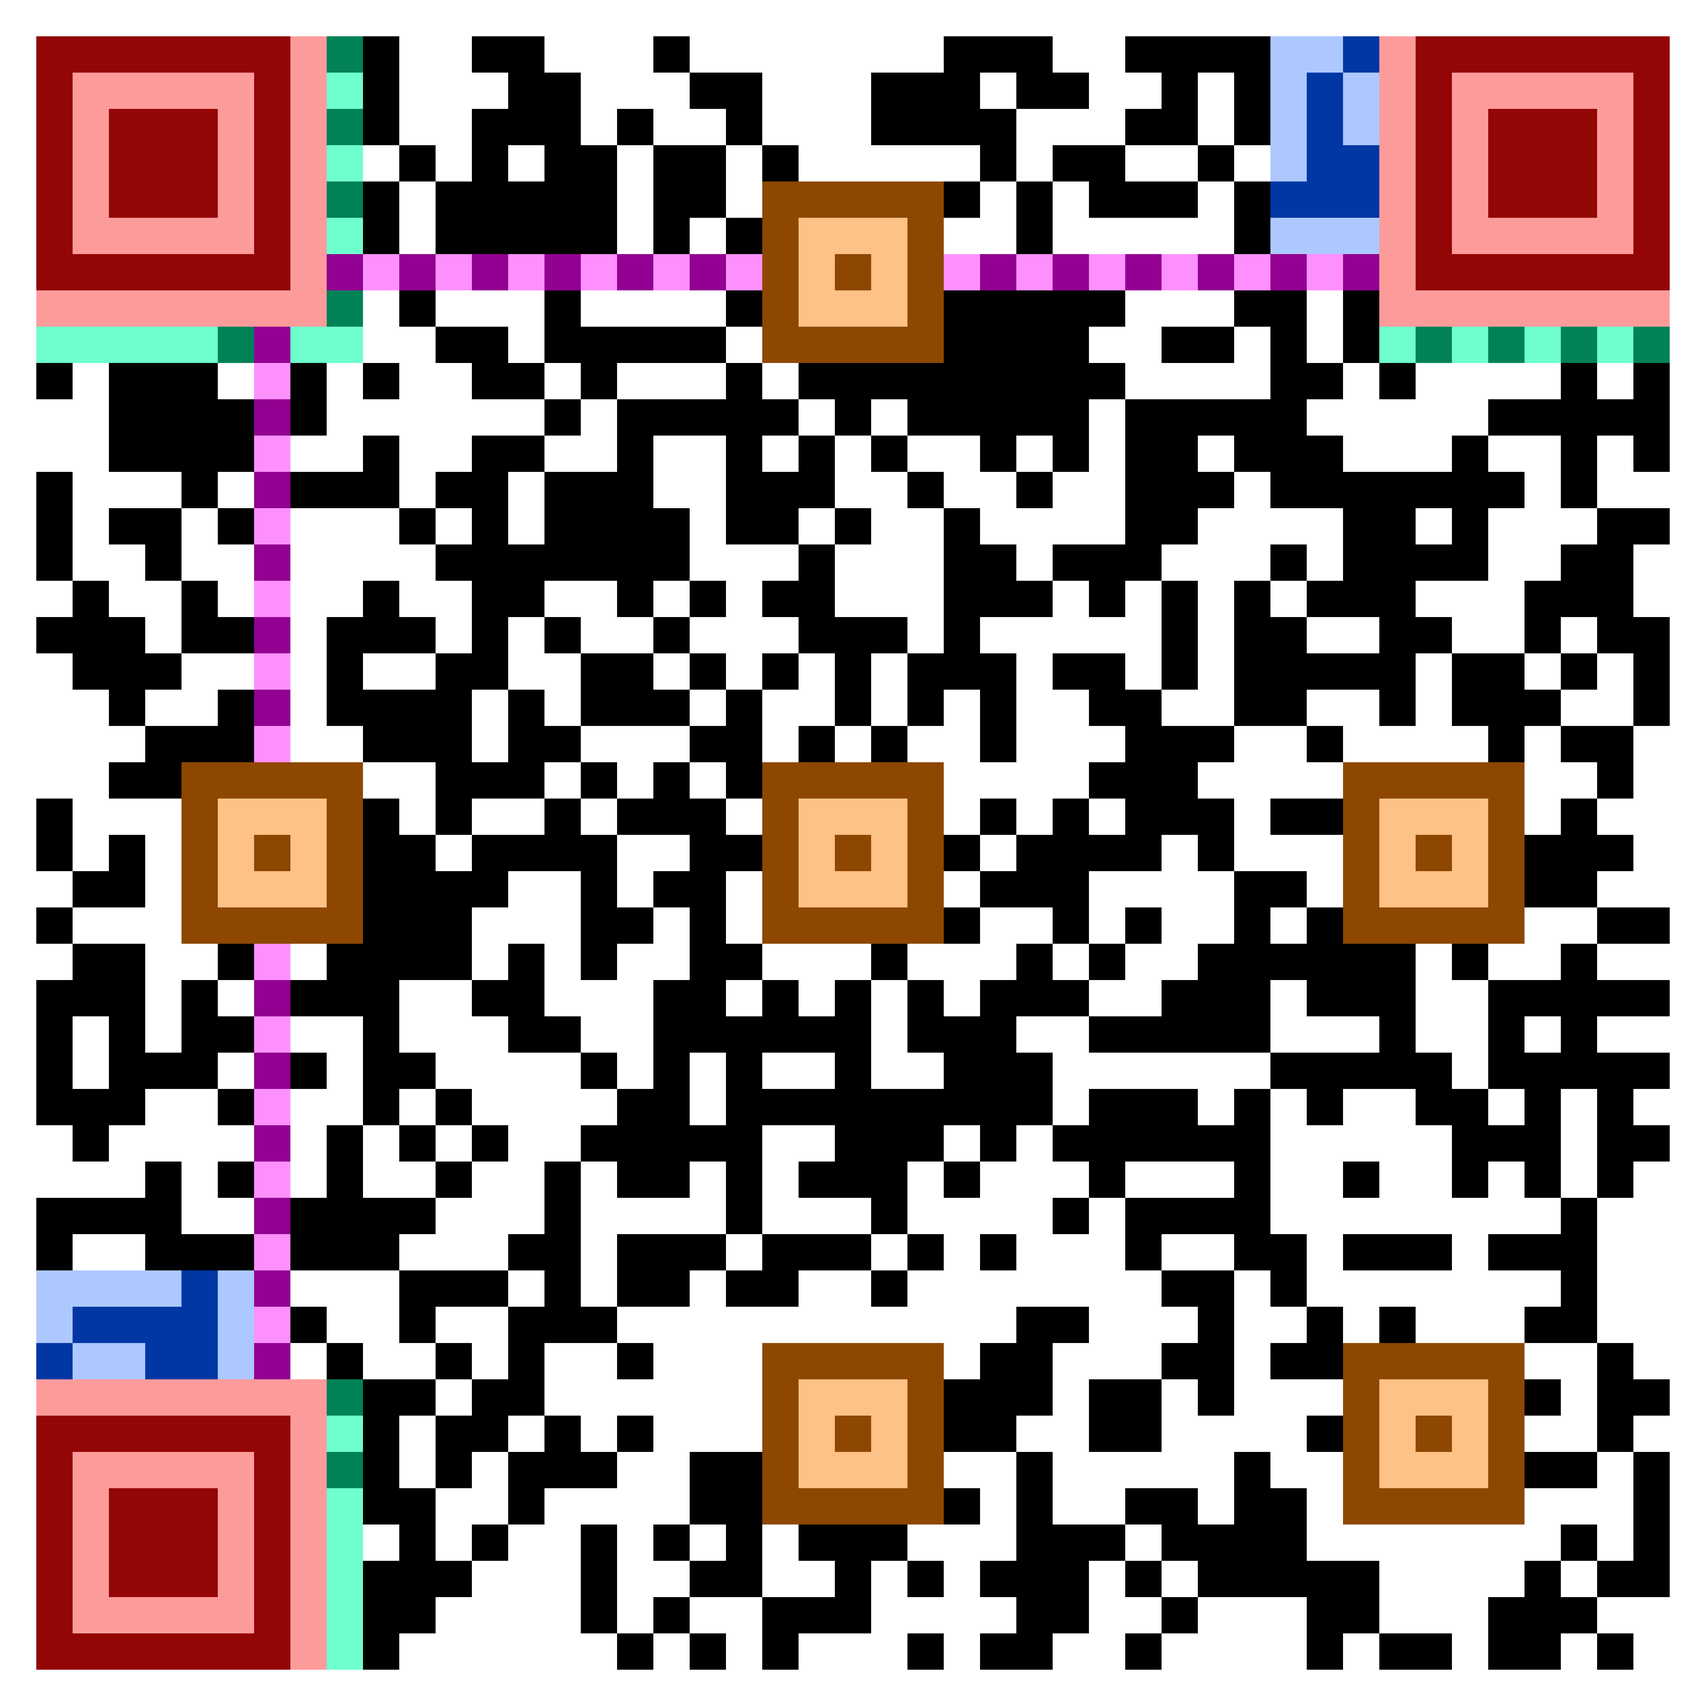
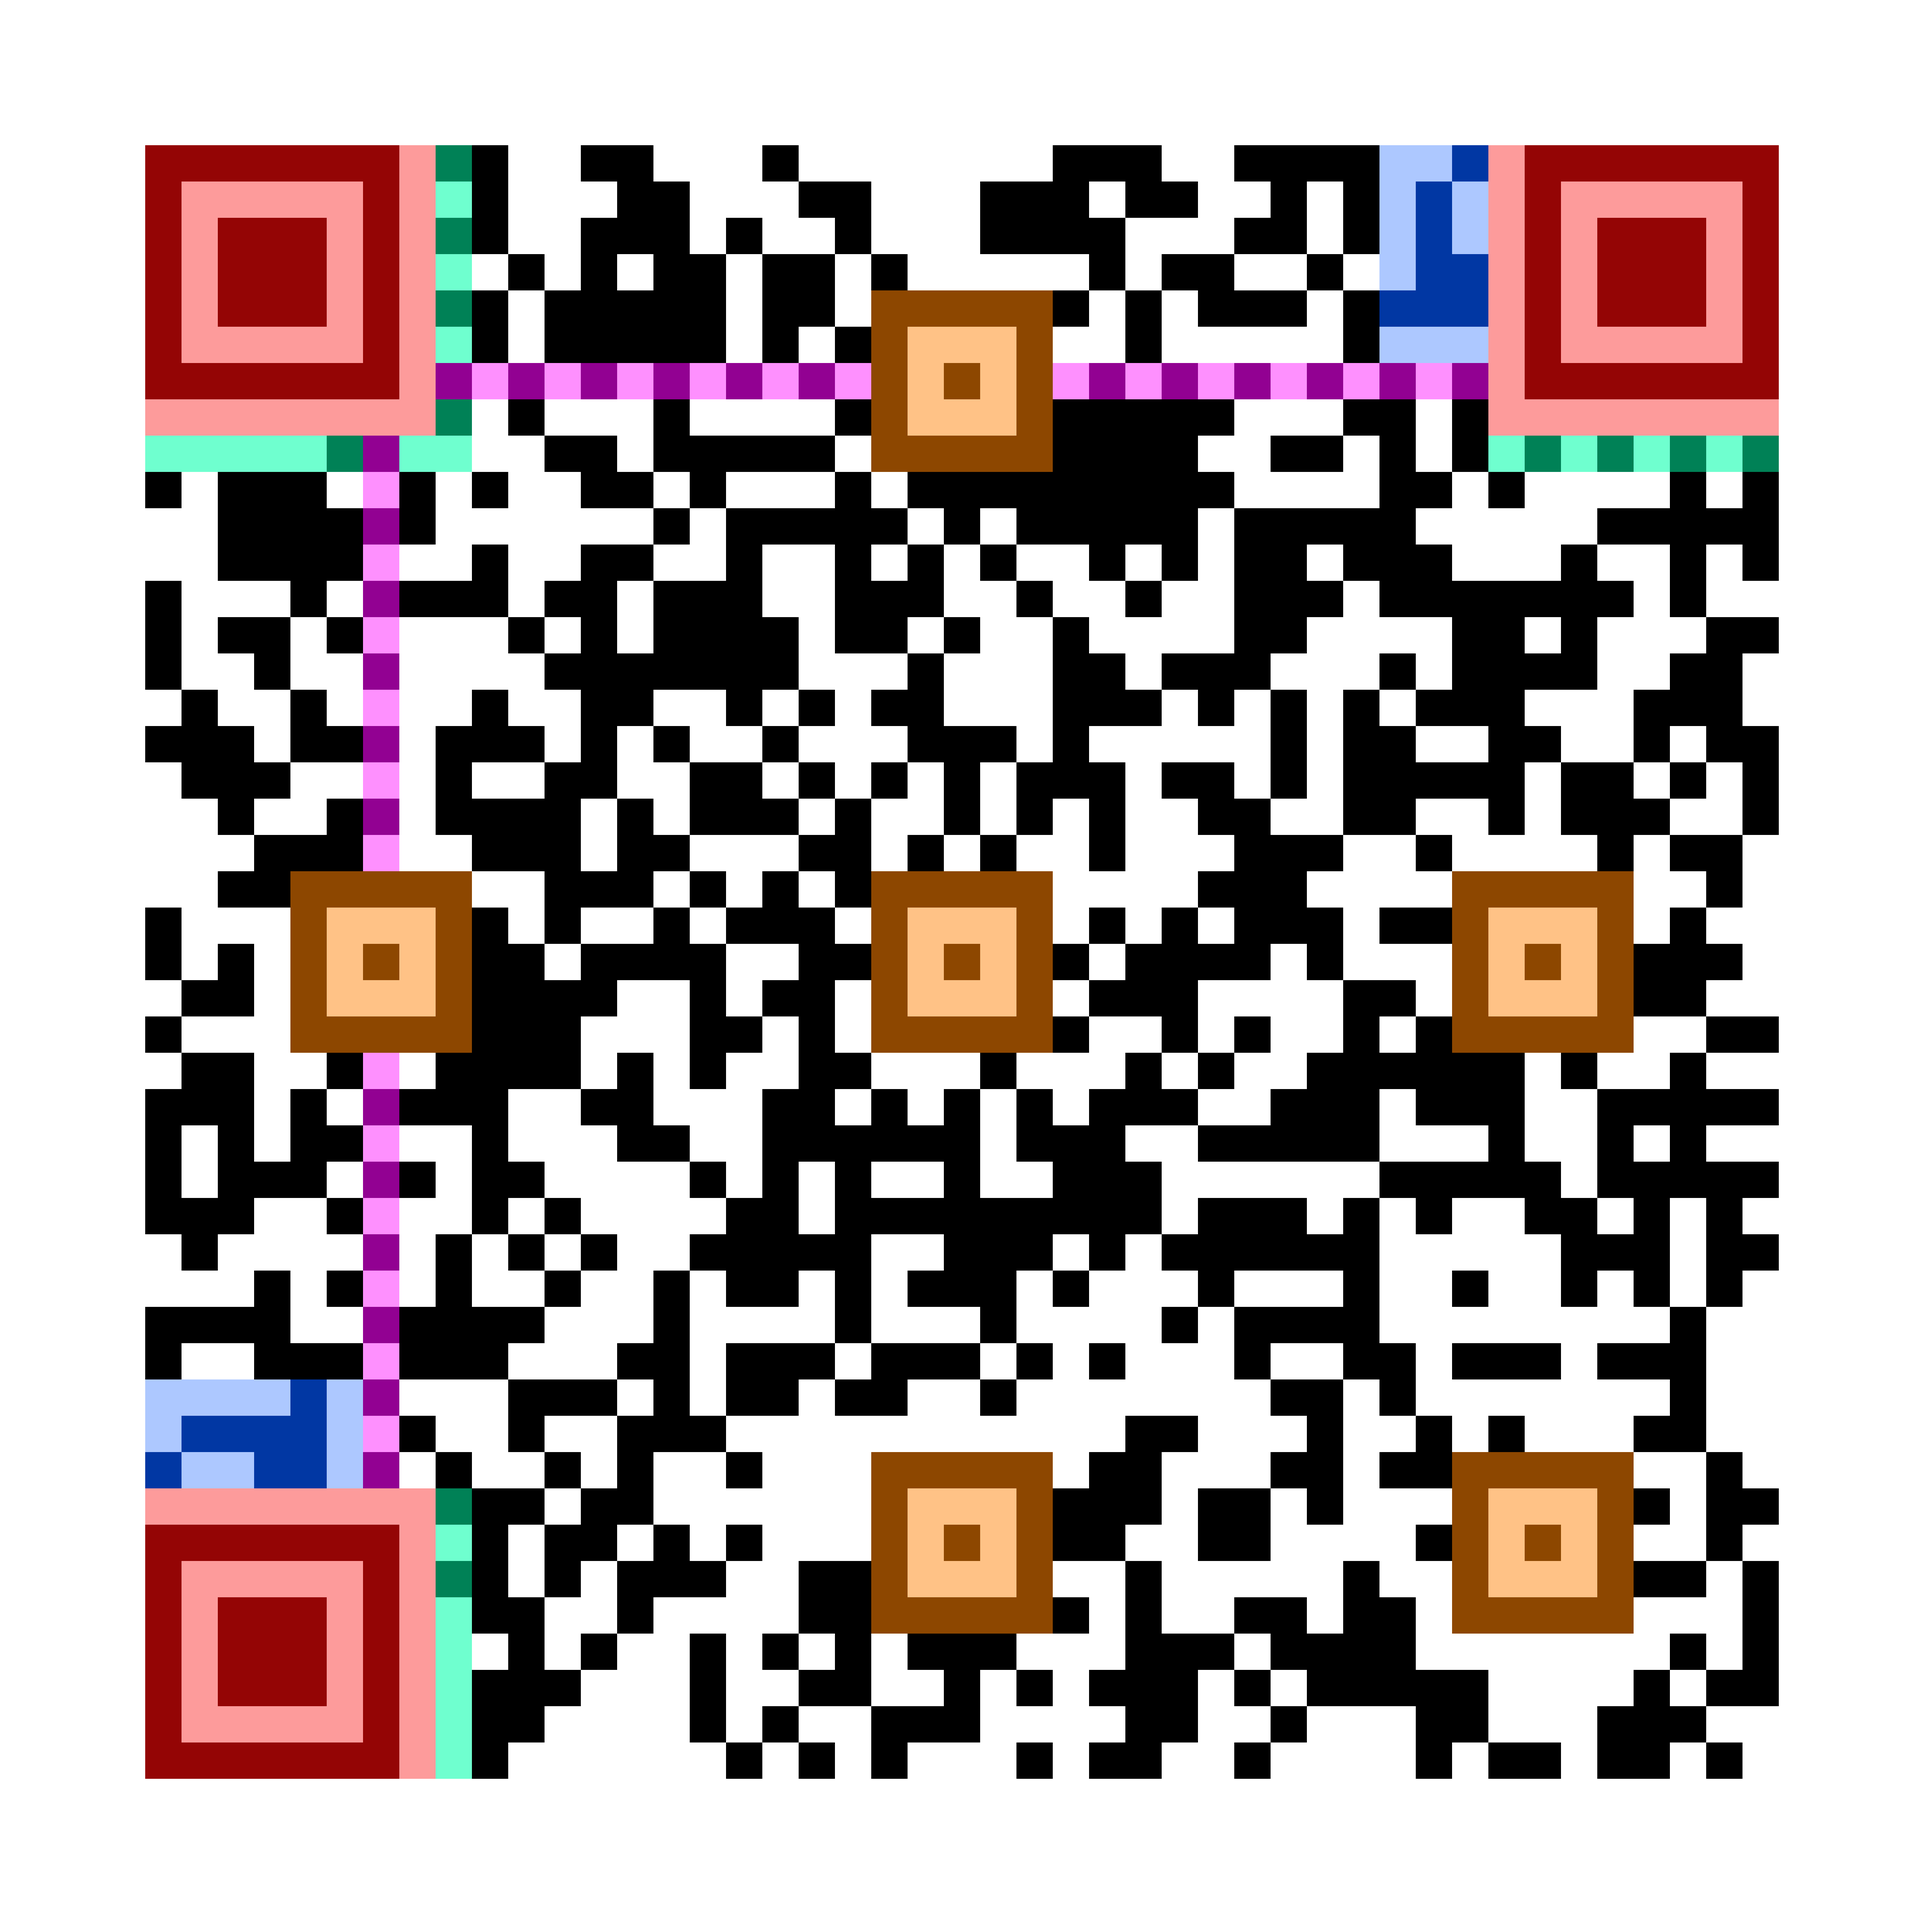
add padding to example renders

diff --git a/examples/tetris/render.js b/examples/tetris/render.js
@@ -7,7 +7,7 @@ export async function tetris_render(qr){
 
   // --- CANVAS SETUP ---
   let module_size = 100
-  let padding = 100
+  let padding = 4 * module_size
   let w = padding * 2 + qr.size * module_size
   let h = padding * 2 + qr.size * module_size
   let canvas = createCanvas(w,h)

diff --git a/examples/debug/index.js b/examples/debug/index.js
@@ -15,7 +15,7 @@ debug(qr)
 export async function debug(qr){
   // --- CANVAS SETUP ---
   let module_size = 100
-  let padding = 100
+  let padding = 4 * module_size
   let size = qr.size
   let w = padding * 2 + size * module_size
   let h = padding * 2 + size * module_size

diff --git a/README.md b/README.md
@@ -144,7 +144,7 @@ The password of the WiFi network
 <table>
   <tr>
     <td>
-      <img src="https://github.com/m4r-sh/qrsart/blob/main/examples/tetris/output.png" width="200"/>
+      <img src="https://github.com/m4r-sh/qrsart/blob/main/examples/tetris/output.png" width="300"/>
     </td>
     <td>
       <h3>Tetromino Shape Packing</h3>
@@ -153,7 +153,7 @@ The password of the WiFi network
   </tr>
   <tr>
     <td>
-      <img src="https://github.com/m4r-sh/qrsart/blob/main/examples/debug/output.png" width="200"/>
+      <img src="https://github.com/m4r-sh/qrsart/blob/main/examples/debug/output.png" width="300"/>
     </td>
     <td>
       <h3>Debug View</h3>
